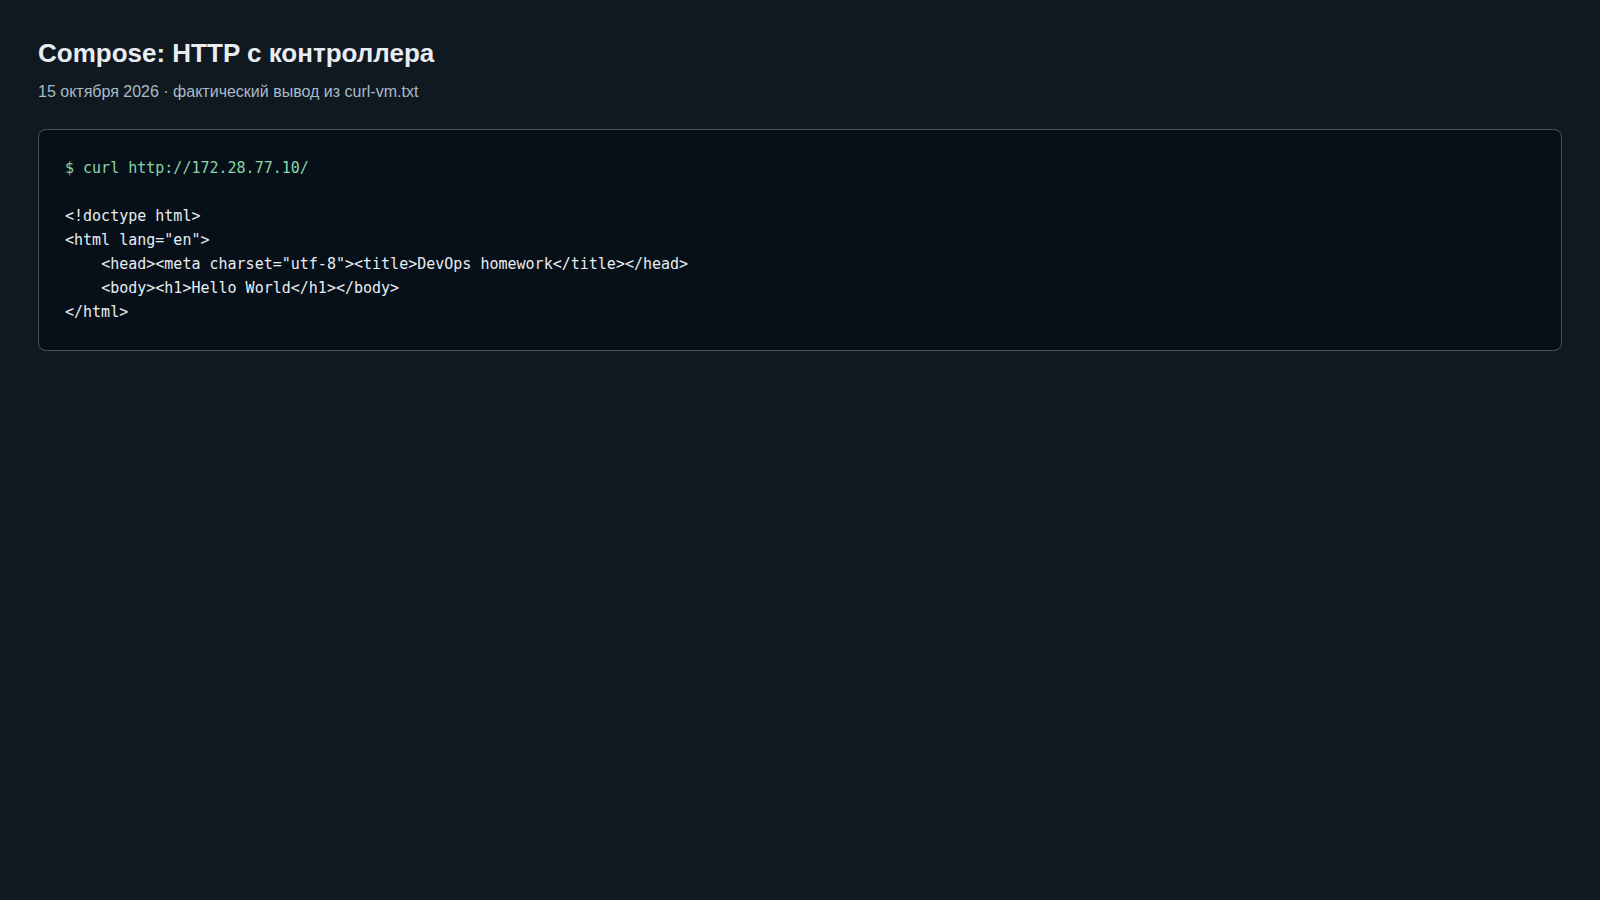
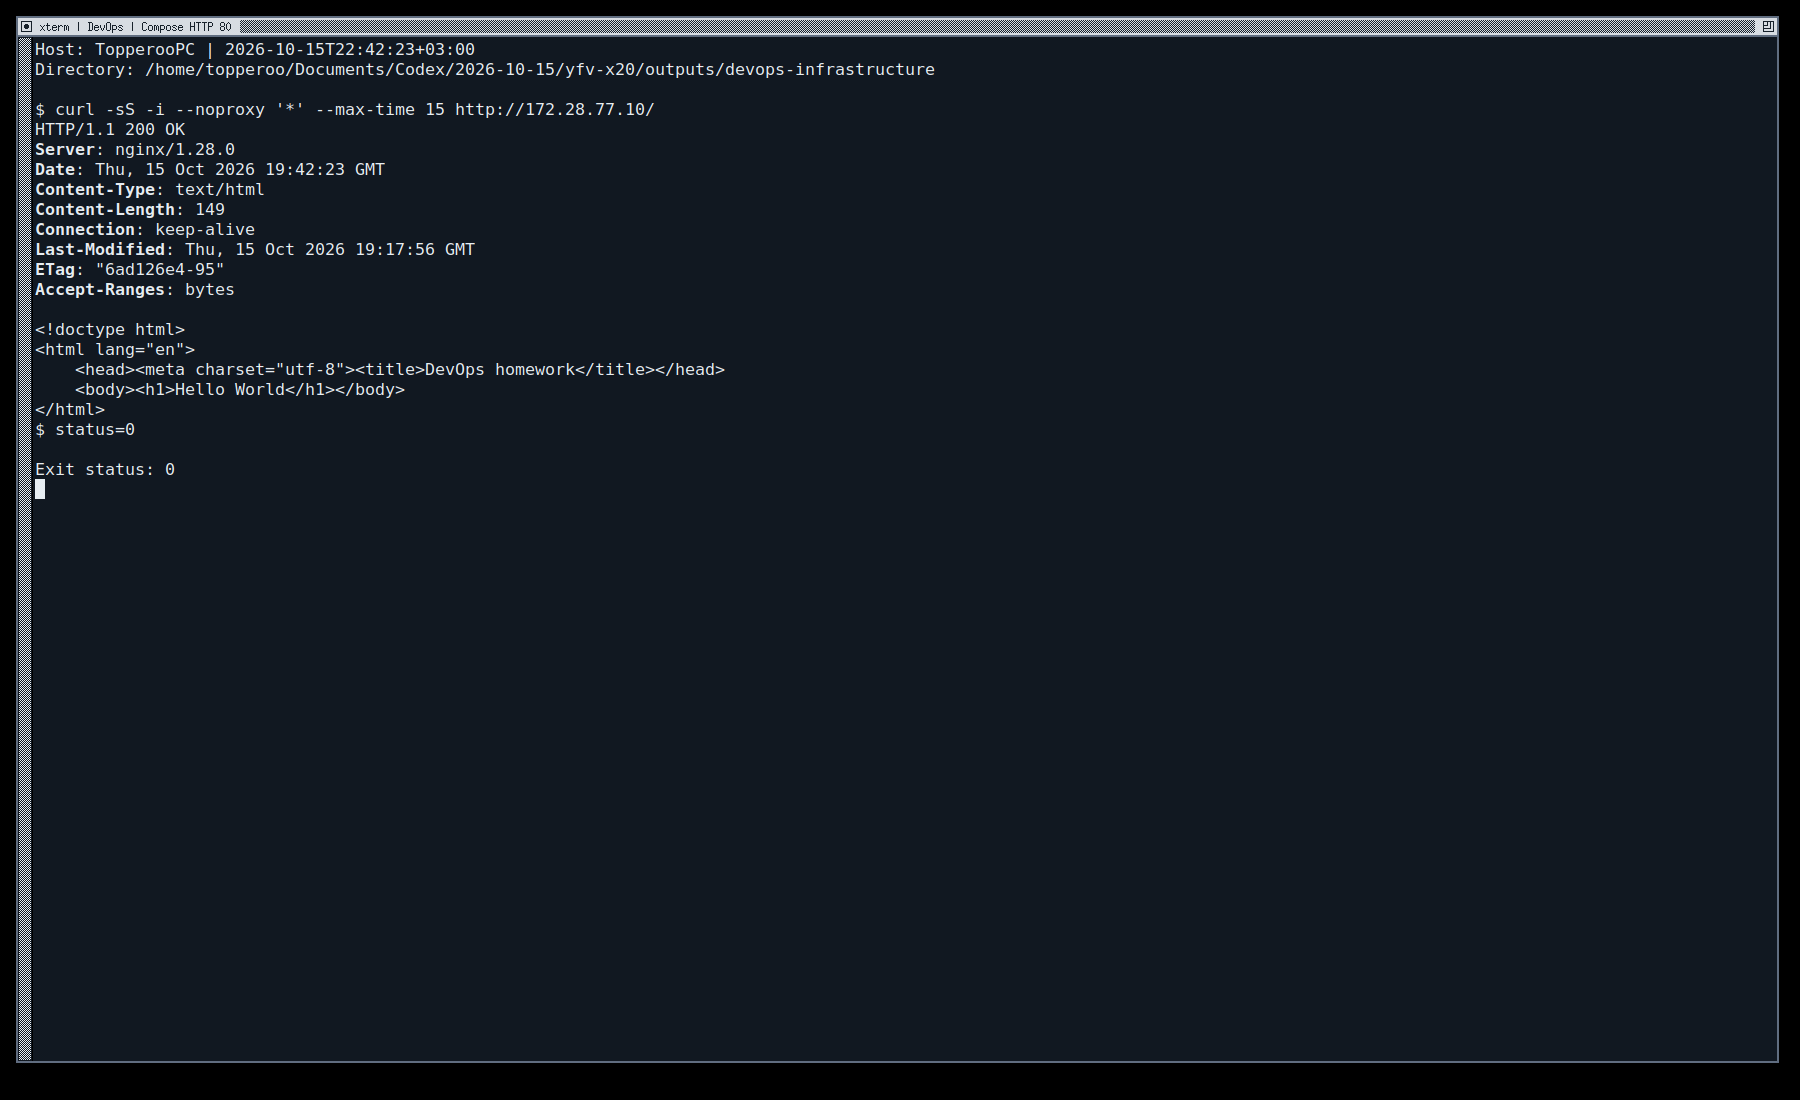
Replace rendered evidence with live xterm screenshots

Changed region(s): [[0.0, 0.0, 1.0, 1.0]]

diff --git a/evidence/STATUS.md b/evidence/STATUS.md
@@ -28,7 +28,8 @@
 - docker-isolation.json — выбранные поля docker inspect: сети, тома, публикация портов, health.
 - compose-vm.txt / curl-vm.txt — оставшееся окружение Compose на 80.
 - firewall-negative.txt — отрицательный сетевой тест внутри гостя.
-- images/ — изображения фактического вывода; полные исходные логи находятся рядом.
+- images/ — шесть прямых снимков окон xterm с повторно выполненными командами.
+- terminal-captures/ — записи реальных терминальных сессий, команды, время и SHA-256 снимков.
 - vm-*.txt — результаты вспомогательной инфраструктуры из первоначальной реализации.
 
 ## Само-ревью и ограничения
@@ -39,6 +40,6 @@
 - Именованный том создаёт Terraform, а не Ansible. В контейнере он доступен только для чтения; образ nginx заполняет новый том штатными HTML-файлами.
 - Ansible обновляет только свою таблицу nftables. Docker-таблицы и Compose-сервисы сохраняются.
 - Отрицательный тест проведён через временный интерфейс ens-hwtest с источником 172.29.88.2; это проверка правил гостя, не тест из интернета. Namespace и интерфейс удалены.
-- Изображения — скриншоты страниц с сохранёнными логами, не снимки GUI-терминала. Содержимое проверяется по txt/JSON.
+- Изображения заменены на прямые снимки настоящего xterm в отдельном Xvfb-экране. Команды выполнены заново; изображения не составлены из сохранённых логов. Все шесть команд завершились с кодом 0; Ansible подтвердил changed=0, HTTP 80/8080 — 200 OK.
 - Исторические ошибки Docker Snap и обновления ядра контроллера не исправлялись; рабочий Docker Engine расположен внутри VM.
 - Старый тег v0.1.0 сохранён; дополнение выпускается отдельной версией v0.2.0.

diff --git a/README.md b/README.md
@@ -124,7 +124,7 @@ ssh -i .local/id_ed25519 deployer@172.28.77.10 'sudo bash -s' < tests/check-fire
 
 Отрицательный тест создаёт временный network namespace внутри гостя с адресом `172.29.88.2` и интерфейсом `ens-hwtest`. Он проверяет запрет SSH, HTTP 80 и HTTP 8080 от другого источника, затем удаляет namespace и интерфейс. Это тест правил гостя на смоделированном внешнем интерфейсе, а не тест из интернета.
 
-Результаты: [evidence/STATUS.md](evidence/STATUS.md). Ниже — скриншоты страниц с фактическим сохранённым выводом команд; это оформленные логи, а не снимки GUI-терминала. Полные `.txt` и JSON доступны рядом.
+Результаты: [evidence/STATUS.md](evidence/STATUS.md). Ниже — настоящие снимки окон xterm. Команды повторно выполнены в отдельном виртуальном X-экране; изображения получены прямым захватом экрана без композиции и отрисовки текста из логов. Полные `.txt` и JSON доступны рядом; записи терминальных сессий и manifest с командами, временем и SHA-256 снимков находятся в `evidence/terminal-captures/`.
 
 ![Terraform: Docker-ресурсы](evidence/images/terraform-state.png)
 
@@ -135,6 +135,8 @@ ssh -i .local/id_ed25519 deployer@172.28.77.10 'sudo bash -s' < tests/check-fire
 ![Мониторинг Docker](evidence/images/monitor-vm.png)
 
 ![Отдельное Compose-окружение](evidence/images/compose-vm.png)
+
+![Compose: HTTP 200 и Hello World](evidence/images/curl-vm.png)
 
 ## Bash-мониторинг
 
